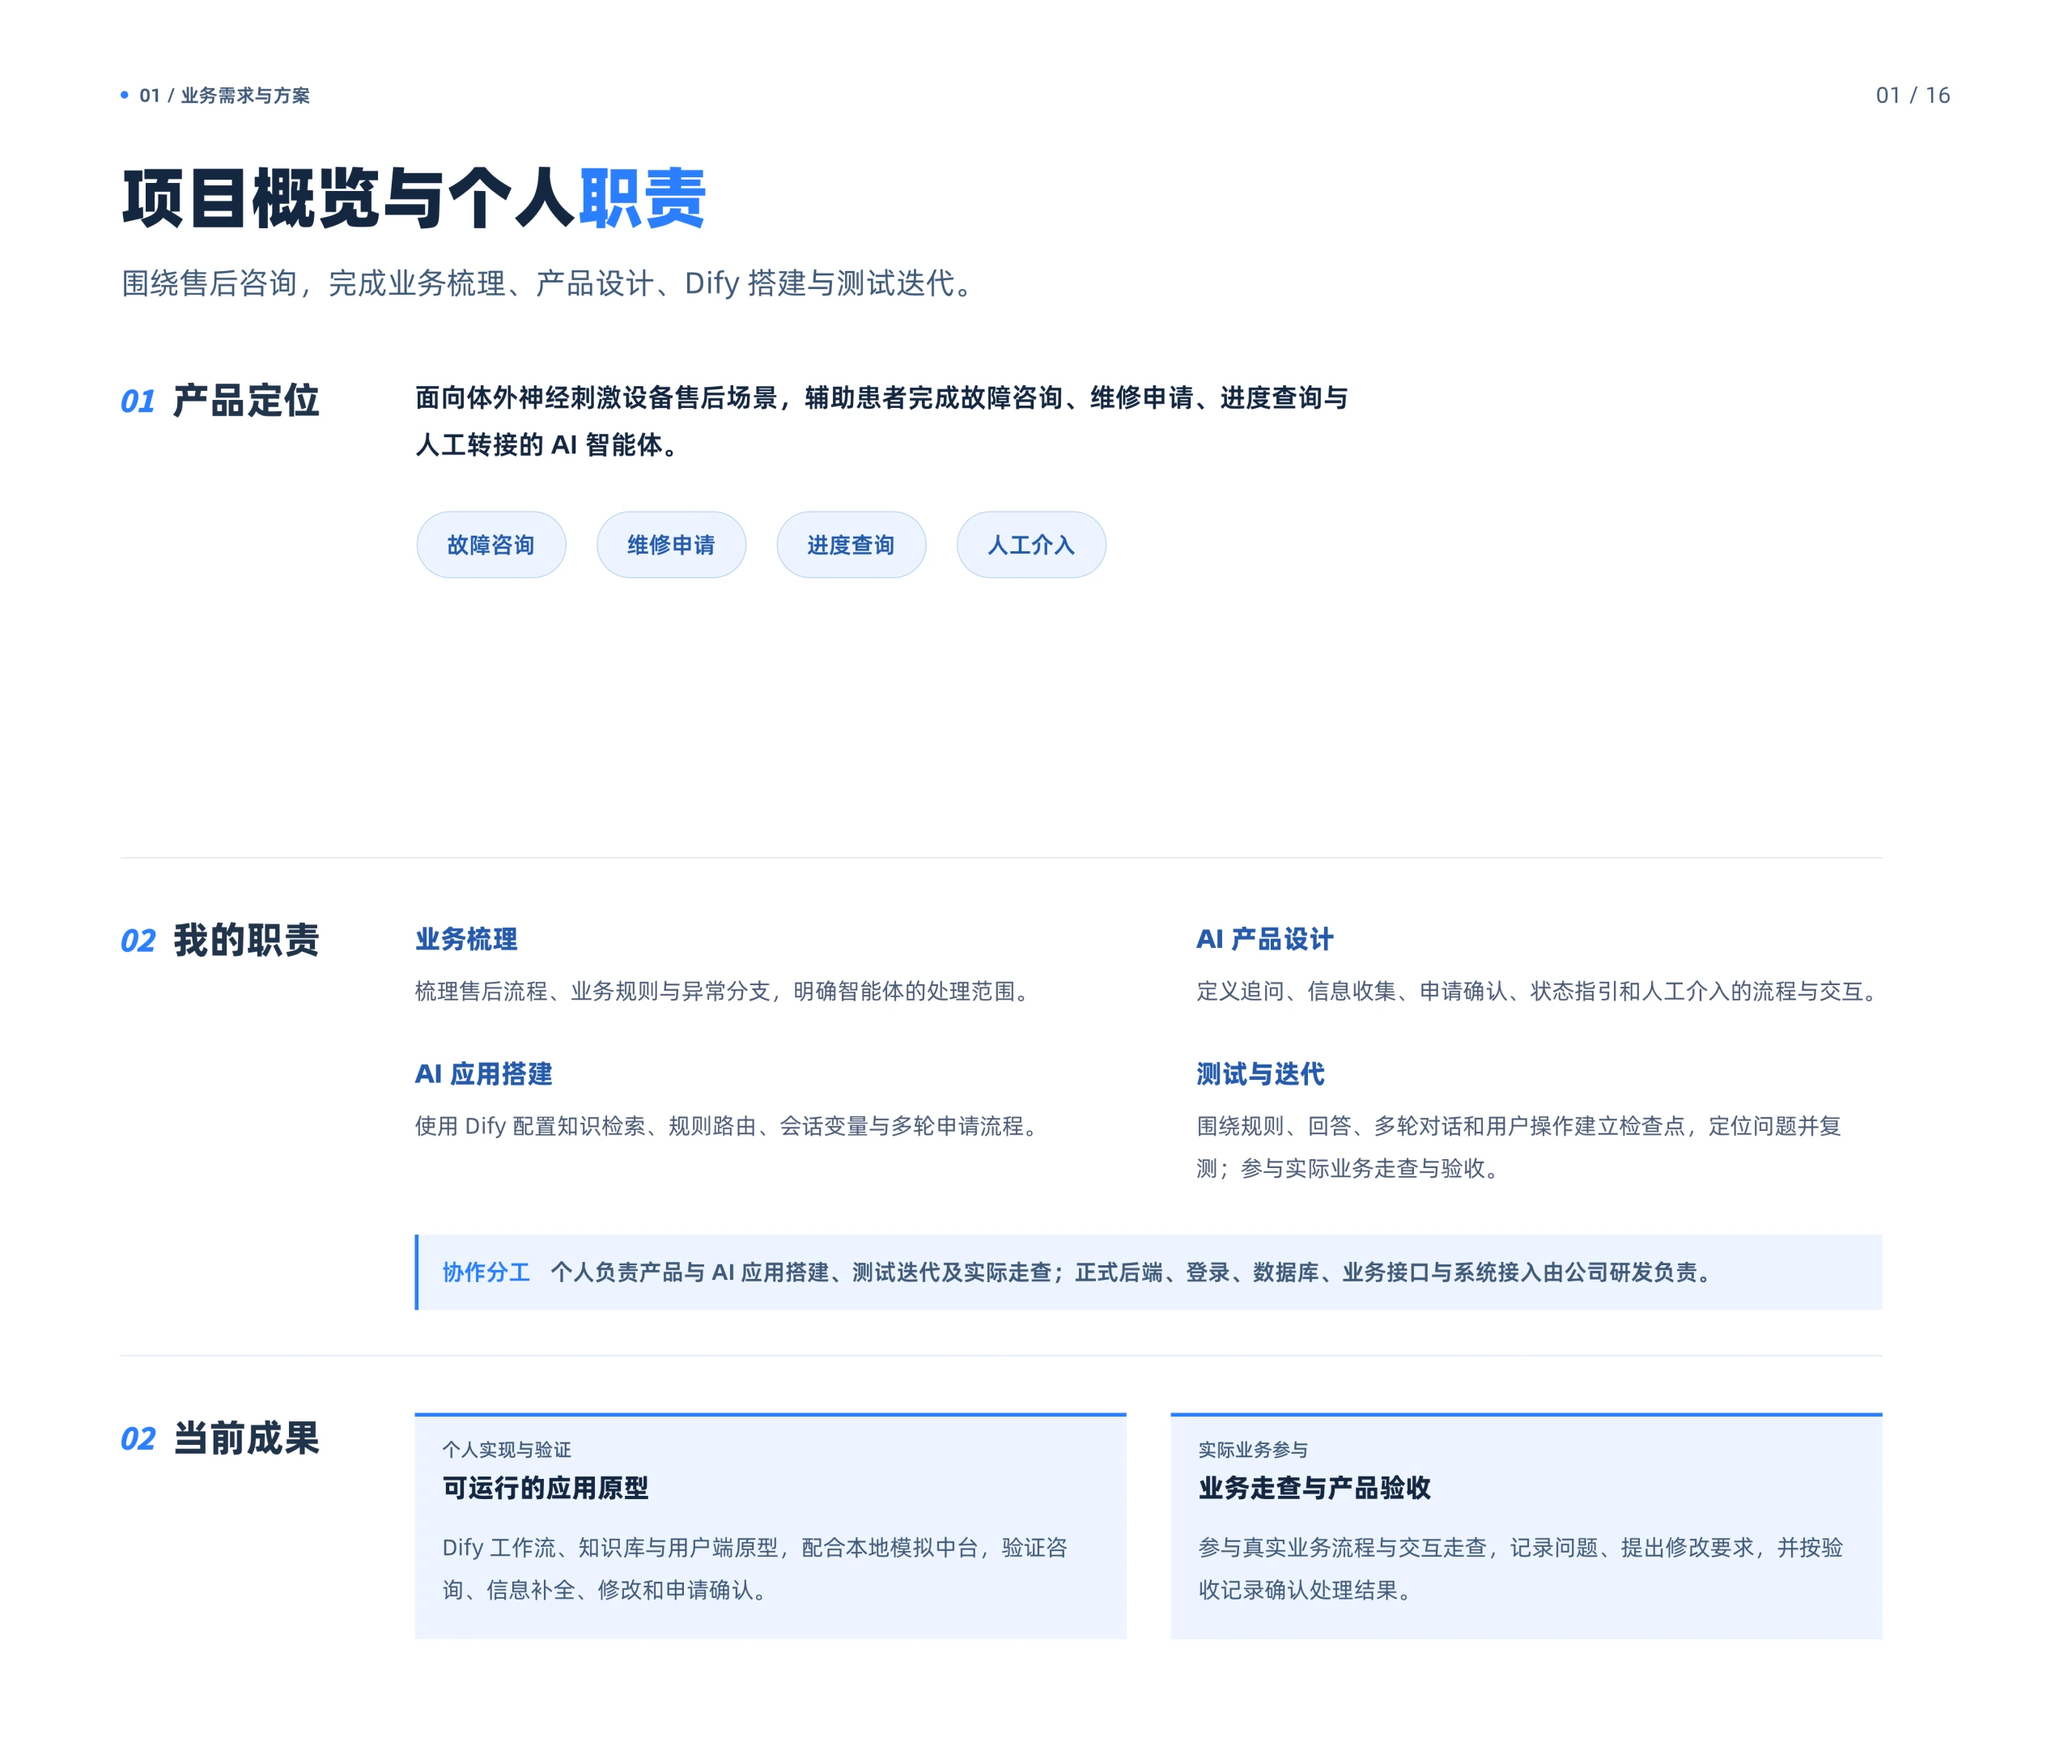
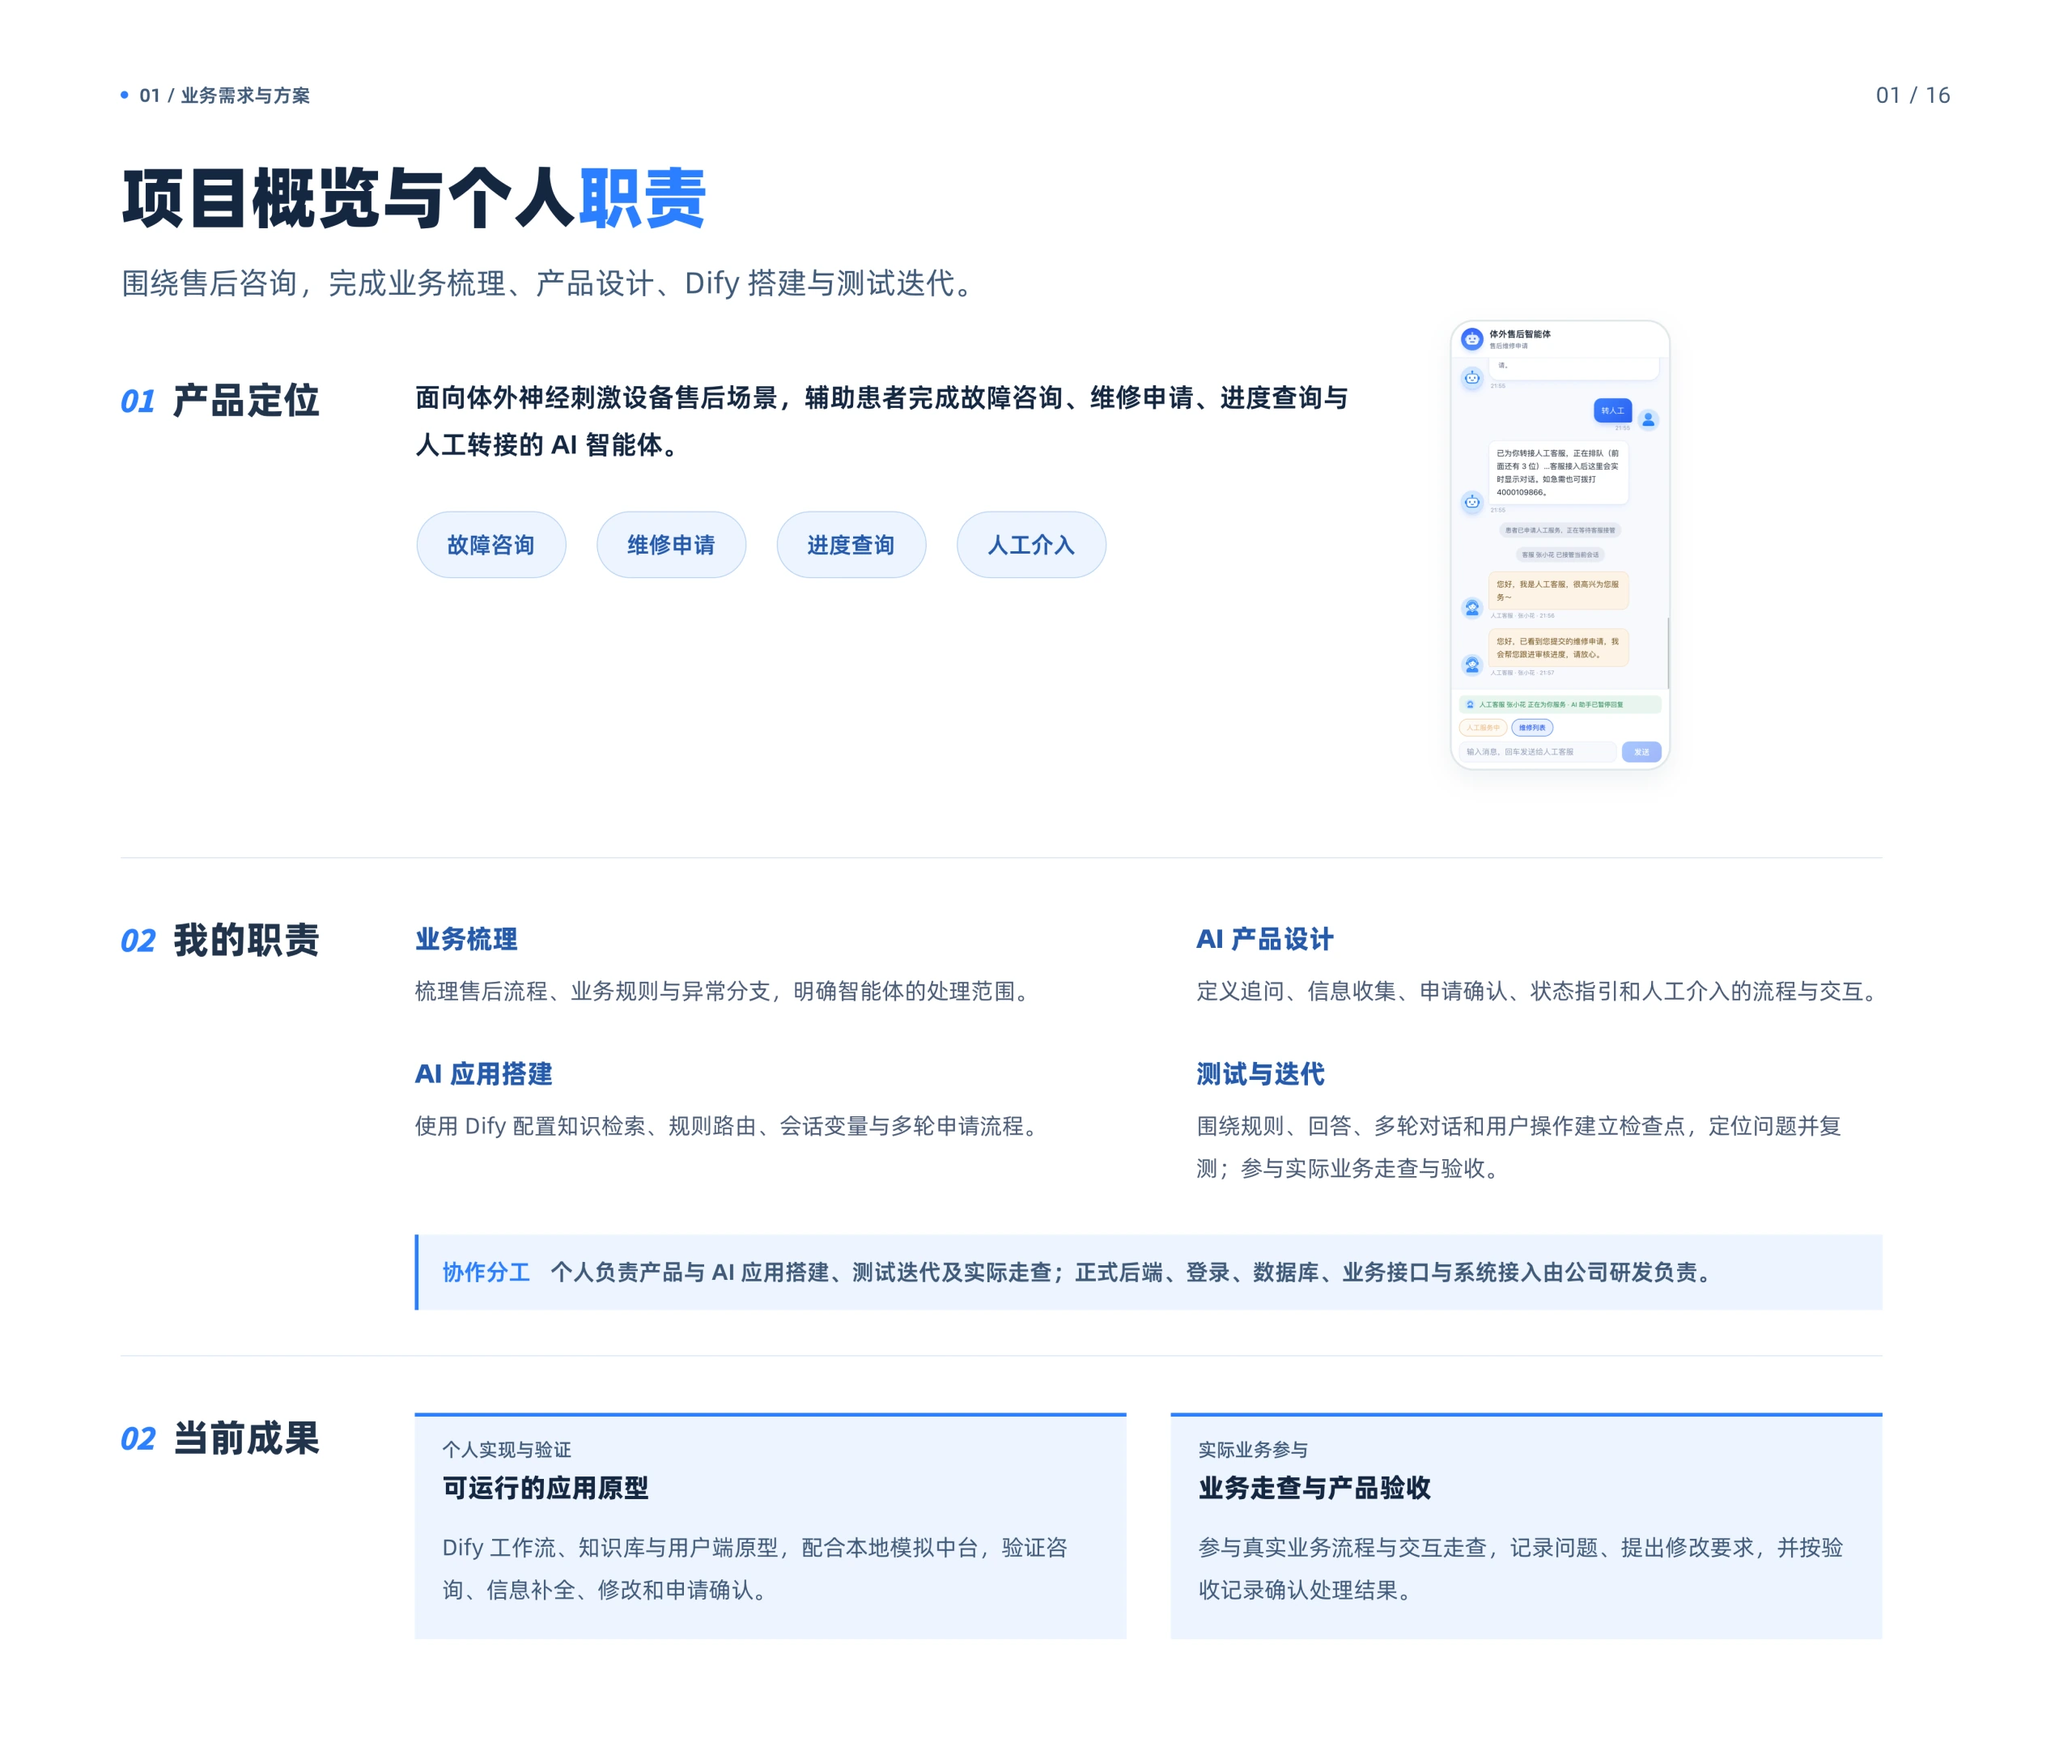
1

Changed region(s): [[0.6875, 0.2158, 0.8125, 0.4317], [0.6875, 0.185, 0.75, 0.2158], [0.7812, 0.4008, 0.8125, 0.4317]]

diff --git a/src/content/work/aftersales-agent/index.md b/src/content/work/aftersales-agent/index.md
@@ -47,8 +47,6 @@ draft: false
 
 ![项目成果与复盘](P13.webp)
 
-## 补充材料
-
 ![业务规则补充材料](A1.webp)
 
 ![工作流与状态细节](A2.webp)
